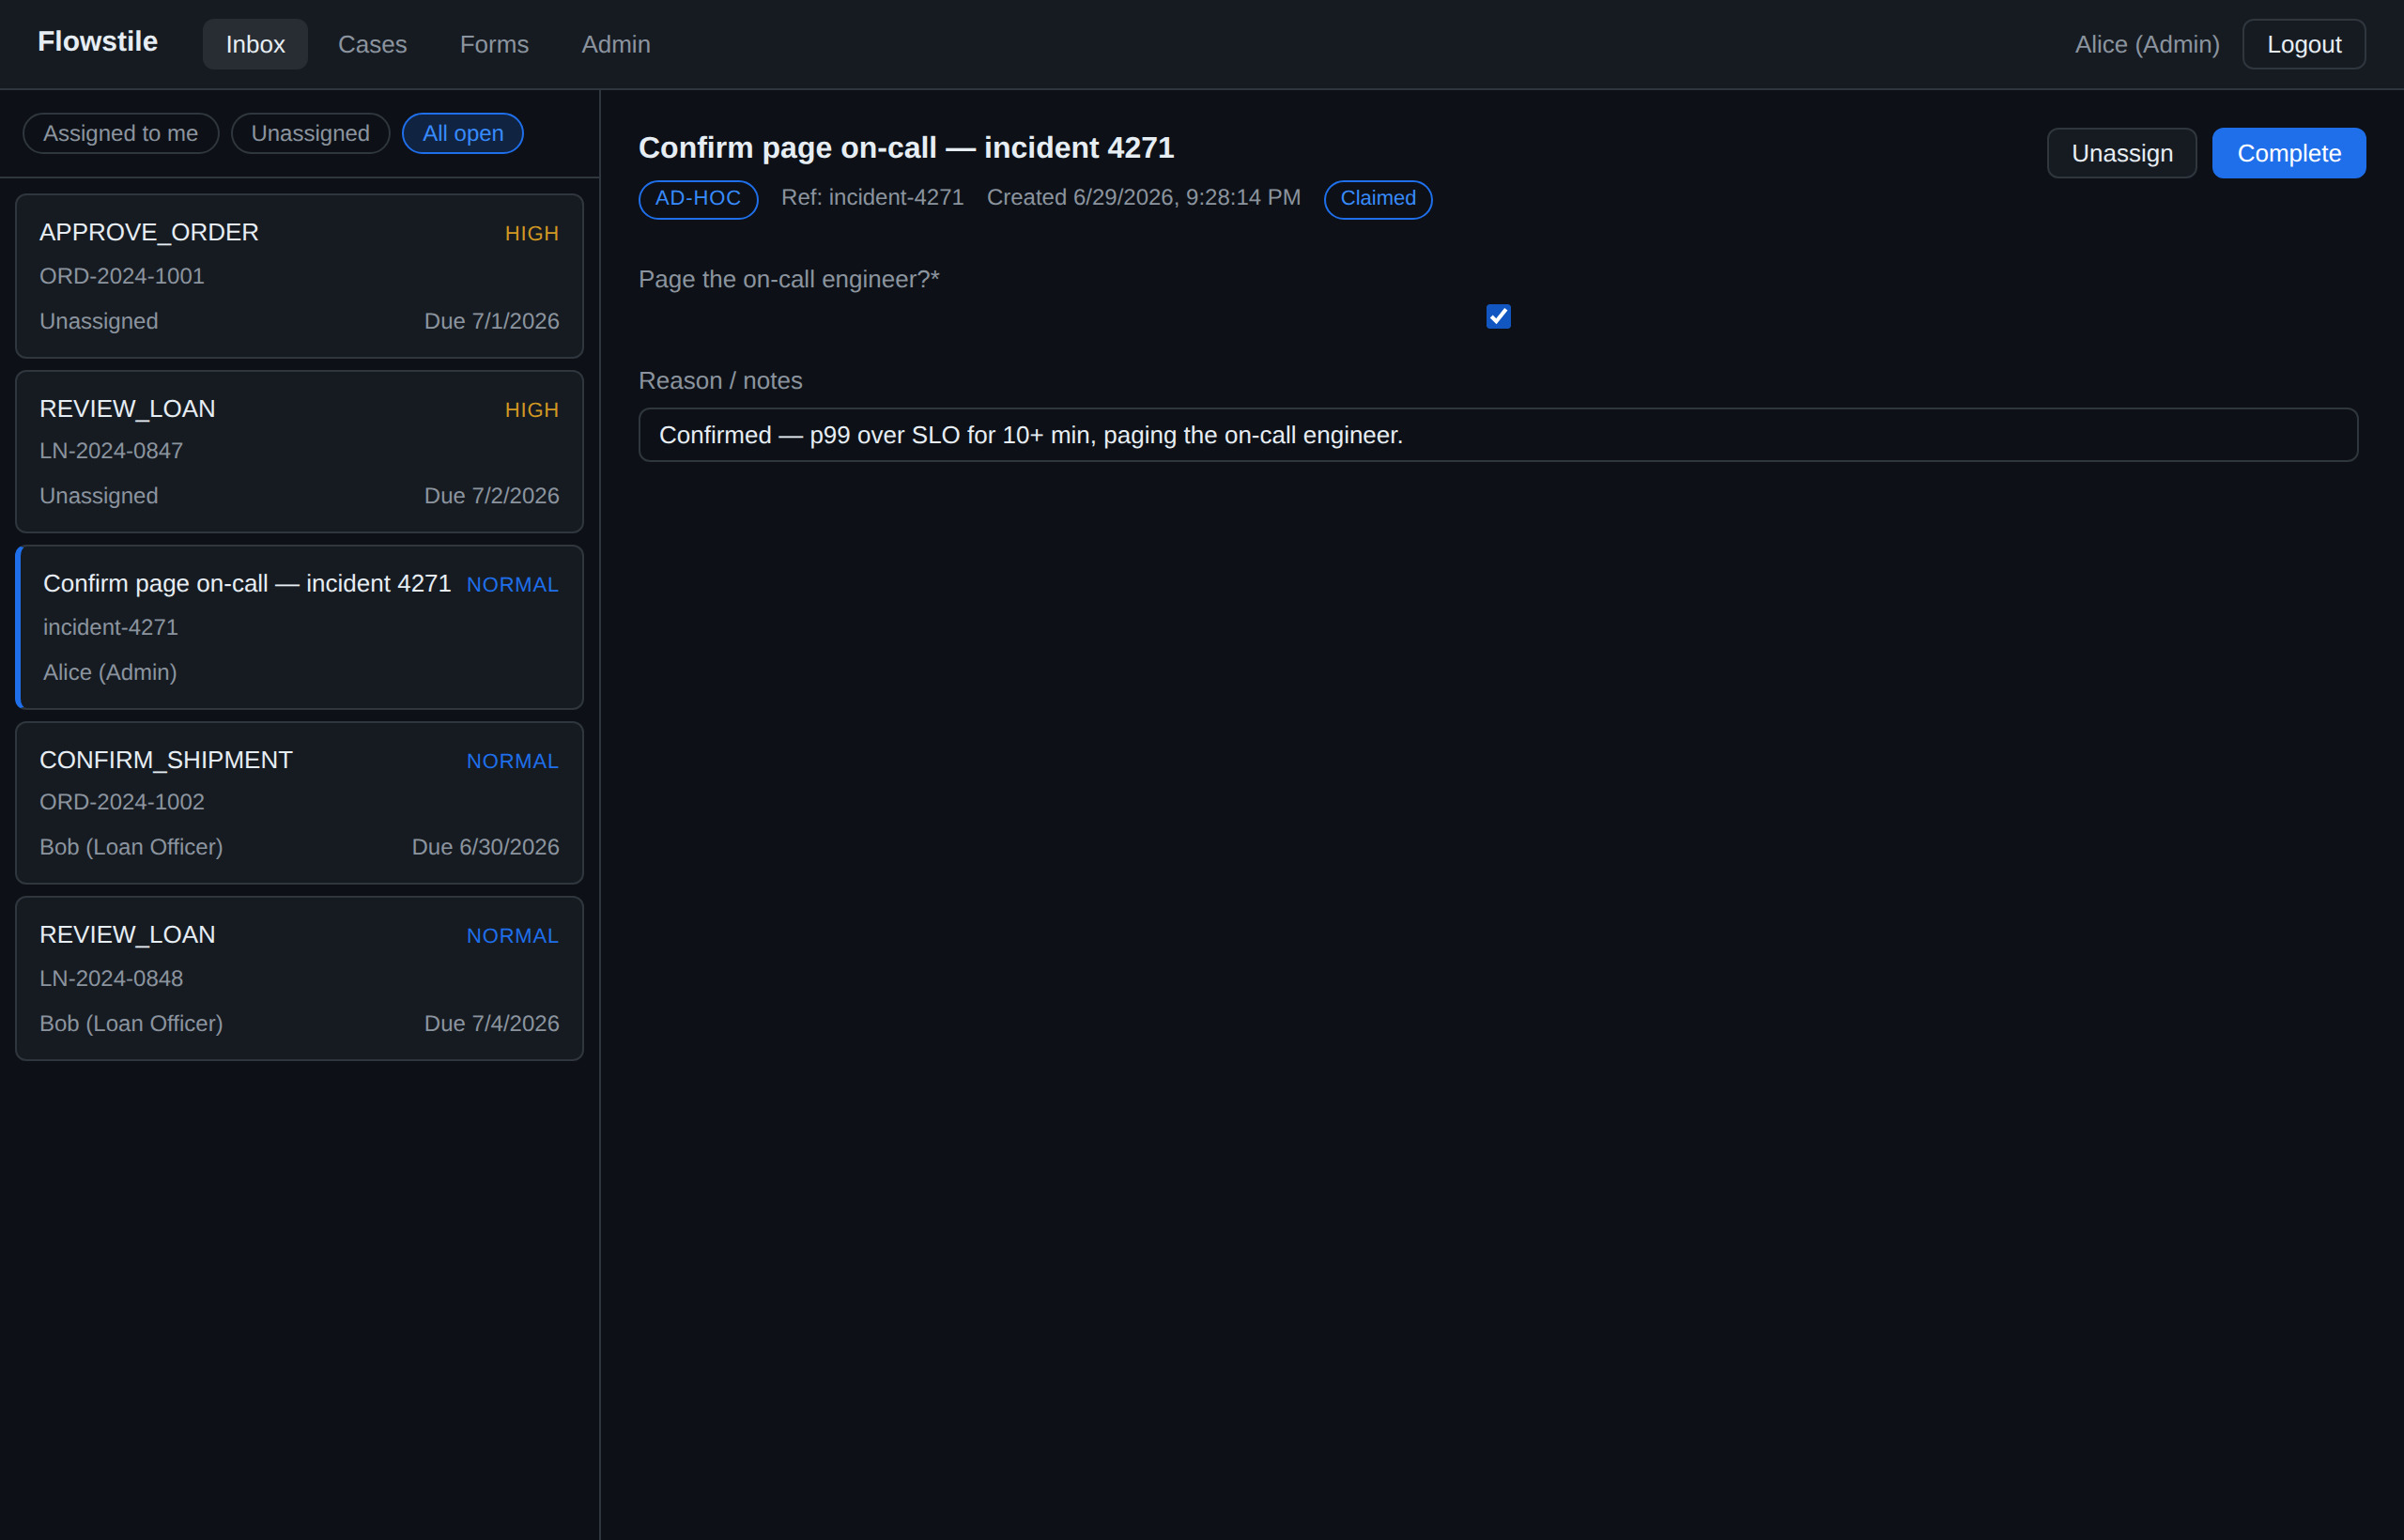
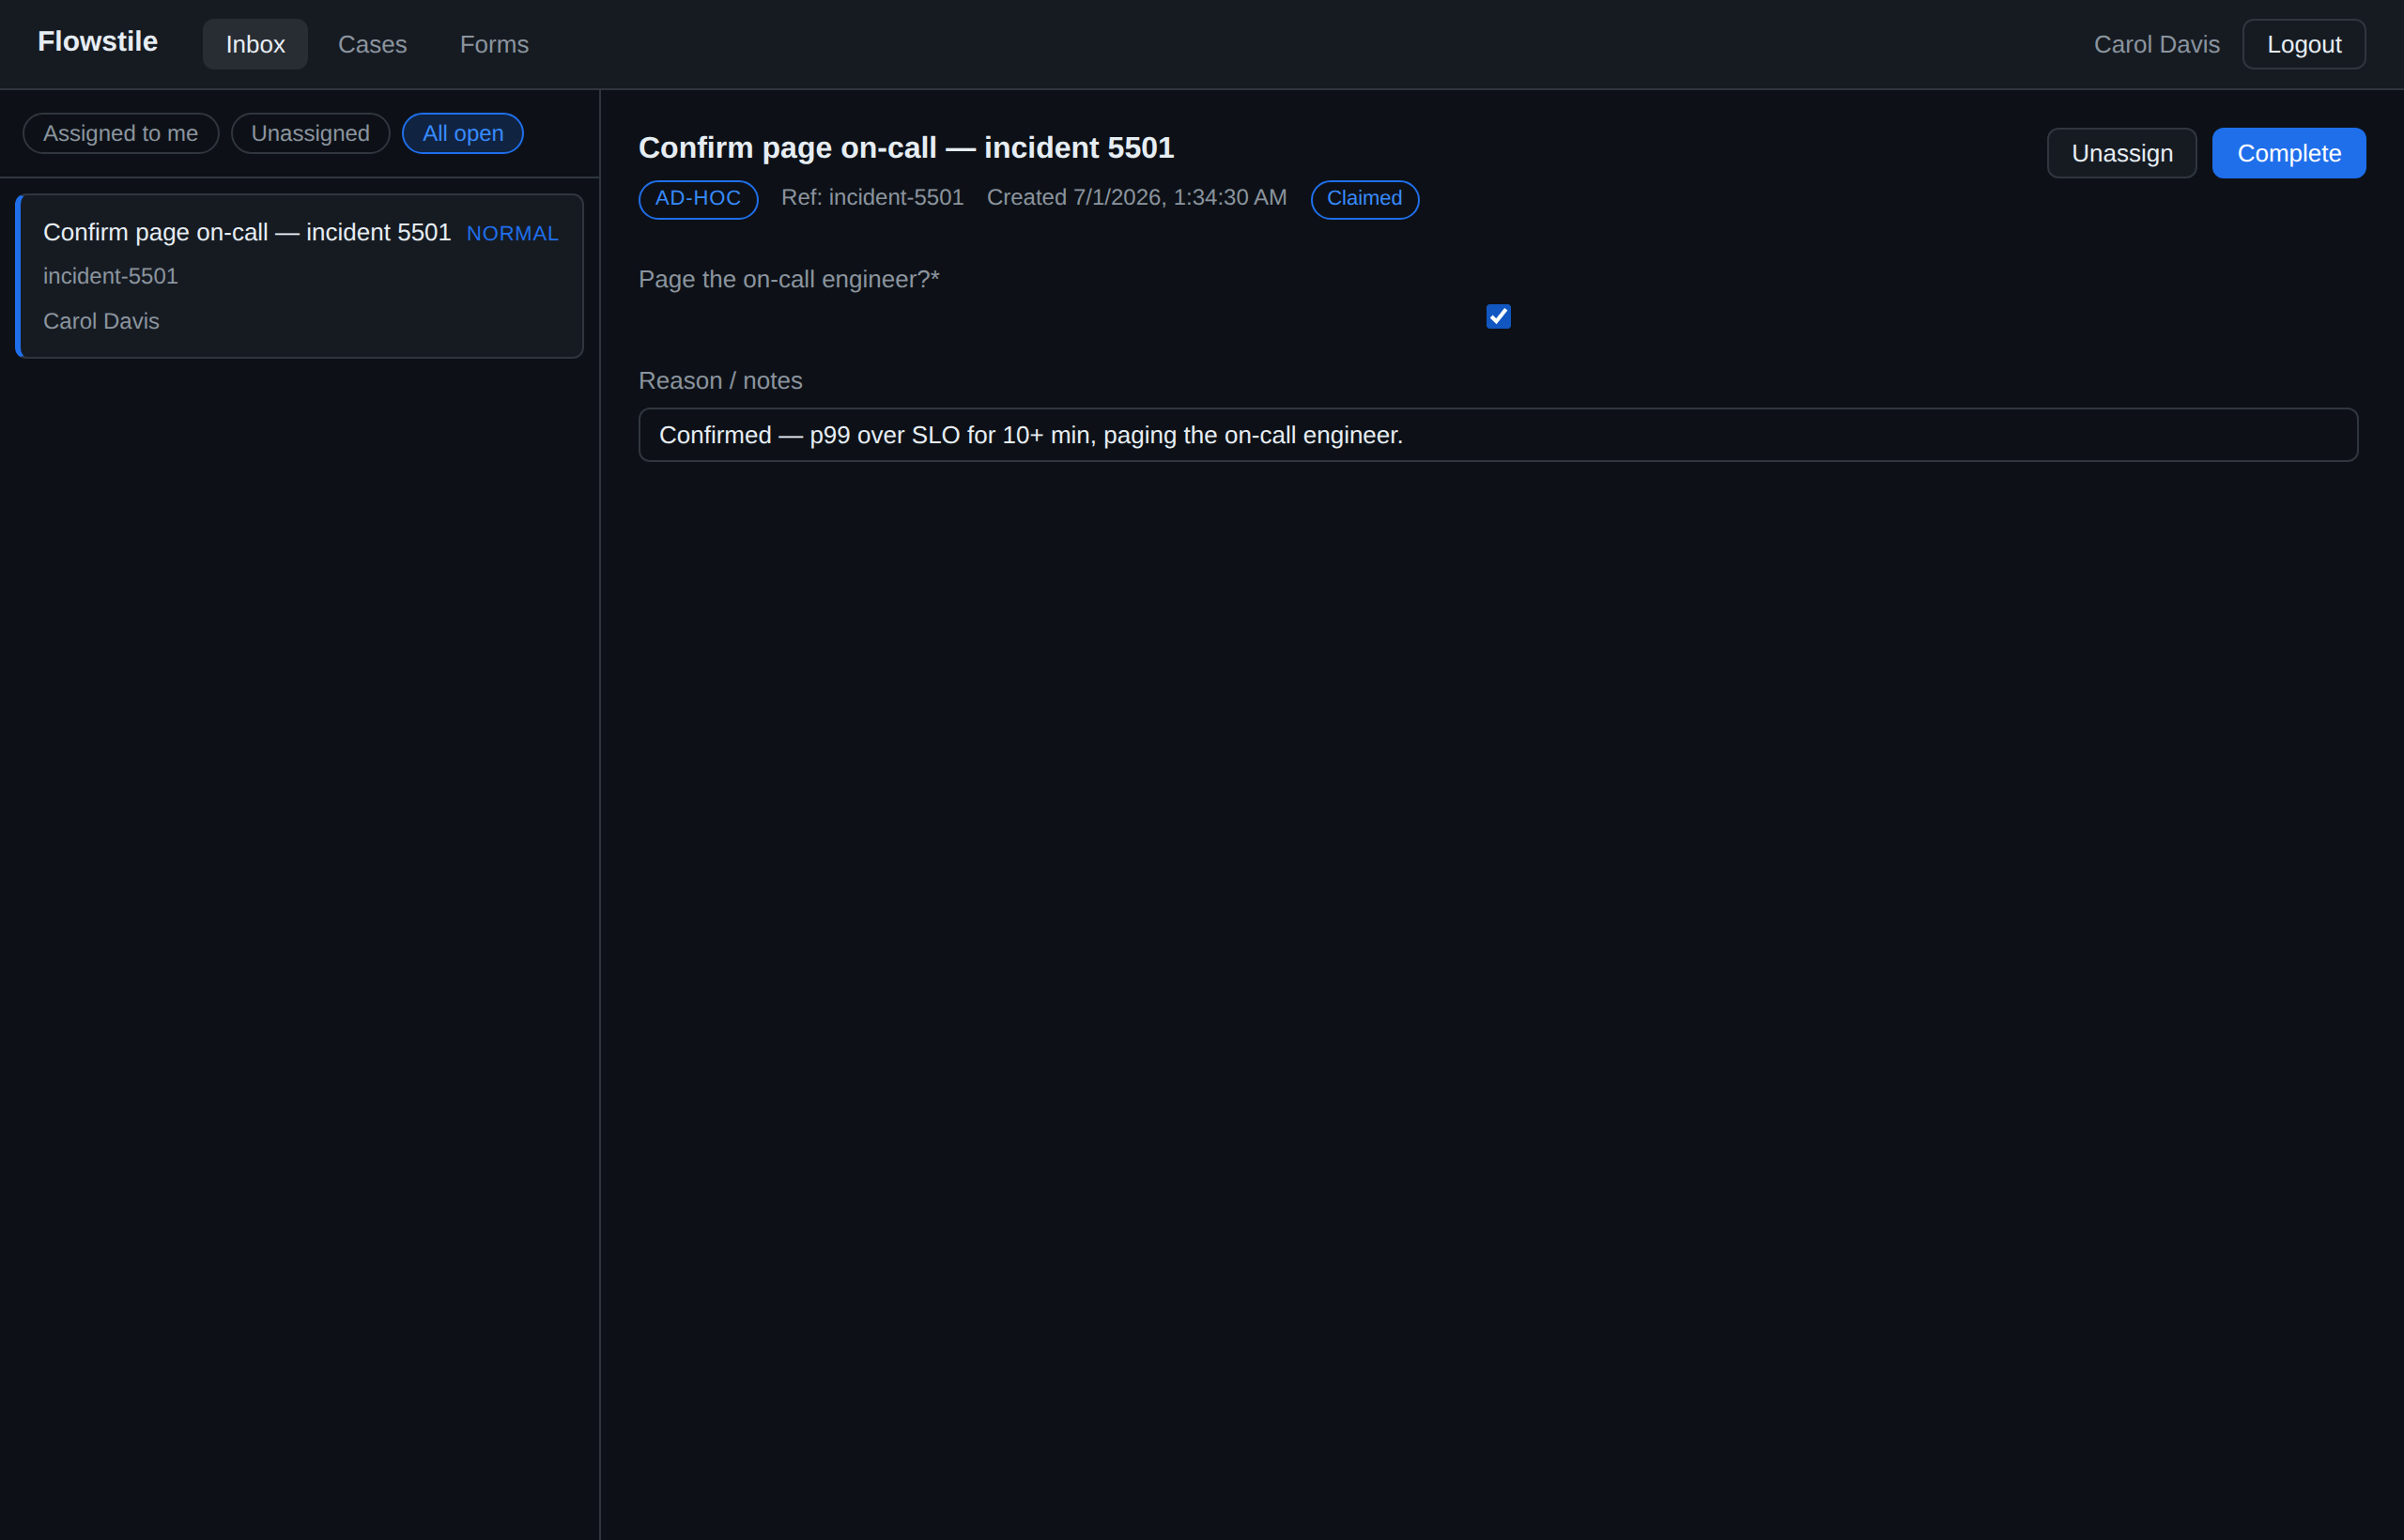
docs: rung-2 governed default, e2e-in-CI note, need-to-know screenshot
Follow-ups on the ad-hoc inline-forms work:

- ad-hoc-tasks.md: add a "reach for this first" section documenting the
  governed default (rung 2) — an agent step gating a *published* form via
  task_definition_code, no inline schema — so inline forms read clearly as
  the escape hatch, not the norm.
- Reshoot the inbox screenshot as Carol, a non-oversight candidate: her inbox
  shows only the task routed to her, demonstrating need-to-know routing rather
  than an admin who sees everything. Prose updated to make that explicit.
- CLAUDE.md: note that e2e (Playwright) runs in CI, not the local sandbox —
  the stack needs supervised services the web-session sandbox doesn't provide;
  CI's health-gated e2e job is the source of truth.

Docs/screenshot only — no code change.

Claude-Session: https://claude.ai/code/session_01VPZvJp77MSfqbUSrBy6wj5

diff --git a/docs/ad-hoc-tasks.md b/docs/ad-hoc-tasks.md
@@ -45,6 +45,40 @@ What you still get with an ad-hoc task — unchanged from any other task:
 - **Typed results.** Pass an output model and `result.data` is validated and
   typed, just like a published-form task.
 
+## Reach for this first: gate a *published* form
+
+Before supplying an inline schema, ask whether the form is *really* emergent.
+Often an agent doesn't need to invent a form — it only needs to decide *whether*
+and *when* to route to a human, using a form you already authored. That is the
+**governed default**, and it needs no new capability: an agent step (a Temporal
+activity) computes a confidence/policy decision, and the workflow conditionally
+raises a normal **published** task — versioned, visibility-aware, with outcomes.
+
+```python
+plan = await workflow.execute_activity(
+    assess_incident, incident, start_to_close_timeout=timedelta(minutes=2),
+)
+
+# The agent decides *whether* a human is needed; the form itself is the
+# pre-authored, governed INCIDENT_REVIEW form — no inline schema.
+if plan["confidence"] < 0.8:
+    await self.record_case_event(
+        incident["id"], actor="agent", label="Escalated for review",
+        payload={"confidence": plan["confidence"]},
+    )
+    result = await self.create_task_and_wait(
+        task_definition_code="INCIDENT_REVIEW",
+        process_instance_id=incident["id"],
+        context_data={"summary": plan["summary"], "recommendation": plan["recommendation"]},
+        candidate_groups=["incident-responders"],
+    )
+```
+
+Here the *emergent* part is the routing decision (a plain `if`), not the form.
+This keeps versioning, field visibility, and outcomes — everything an inline form
+gives up. **Only when there is genuinely no published form to point at** — the
+question itself took shape at runtime — drop to the inline `formSchema` below.
+
 ## Python
 
 `create_task_and_wait` gains a `form_schema` (and optional `ui_schema`, `name`)
@@ -169,7 +203,11 @@ behaves identically to a normal task — claim, fill, complete. The only visible
 difference is an **"Ad-hoc"** badge (there is no form code/version to show) and
 the `name` you gave it as the task title.
 
-![An ad-hoc task open in the inbox, rendering its inline form](images/adhoc-task.png)
+![An ad-hoc task in the inbox of the candidate it was routed to, rendering its inline form](images/adhoc-task.png)
+
+The inbox above is Carol's — a plain responder, not an admin. She sees this task
+**only because `candidateUsers` routed it to her**; nothing else appears, exactly
+as need-to-know dictates for any task.
 
 On the case timeline, the agent step that generated the form shows up as an
 `agent` event, so the emergent task is auditable end to end — the reasoning and

diff --git a/CLAUDE.md b/CLAUDE.md
@@ -115,6 +115,15 @@ pnpm test                                            # unit
 pnpm --filter @flowstile/server test:integration     # integration (requires postgres)
 ```
 
+**e2e (Playwright) is not in that loop — run it in CI, not locally-in-agent.** The
+full stack (Postgres + Temporal + worker + browser) needs *supervised*, long-lived
+services; a web-session sandbox doesn't supervise them (the Docker daemon/Postgres
+get reclaimed mid-run), so `npx playwright test` is flaky there. CI's `e2e` job
+(health-gated service containers, worker-ready poll, `CI ? retries: 2`) is the
+source of truth — push to `master` or open a PR to run it. The config is already
+hardened (`webServer` waits on `/health`); don't paper over sandbox flakiness with
+more retries.
+
 Open a branch + PR only when you specifically want one of:
 - **CI watched/autofixed in-session** — the PR webhook stream is the only way the agent can observe GitHub Actions results from its environment (no `gh`, no network, no Actions MCP tool). Use this when stepping away and you want a red build caught and fixed.
 - **Staging a risky or large change** — somewhere to let CI run and review the full diff in GitHub's UI before merging deliberately.